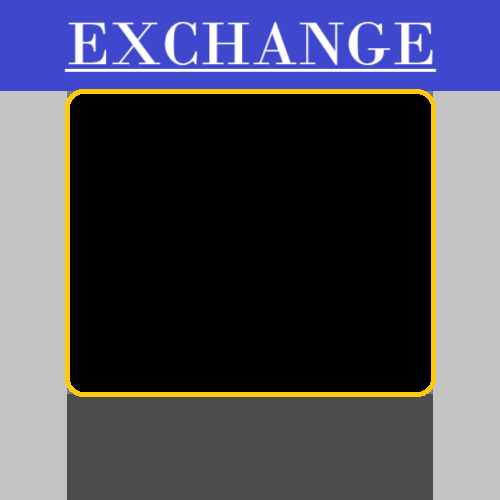
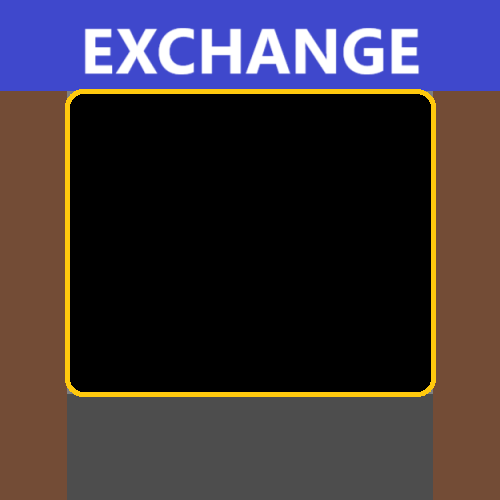
kantor graficznie epilog
hopefully

Changed region(s): [[0.84, 0.18, 1.0, 1.0], [0.0, 0.18, 0.15, 1.0], [0.12, 0.03, 0.87, 0.15]]

diff --git a/src/monopolyGame/GamePanel.java b/src/monopolyGame/GamePanel.java
@@ -2,6 +2,7 @@ package monopolyGame;
 
 import javax.swing.*;
 import javax.swing.border.Border;
+import javax.swing.border.MatteBorder;
 
 import java.awt.*;
 import java.awt.event.*;
@@ -78,6 +79,7 @@ public class GamePanel extends JPanel{
     JButton CalculateExchange;
     Timer timer;
     private int seconds;
+    JPanel RightBottomPanel;
 
     protected Subject subject;
     Pawn pawn0= Board.getPawns()[0];
@@ -1018,10 +1020,22 @@ public class GamePanel extends JPanel{
 
         revalidate();
     }
+
     public void CreateExchangeLabels(){
         
-        JPanel RightBottomPanel = new JPanel();
-        RightBottomPanel.setBorder(BorderFactory.createLineBorder(Color.decode("#000000"), 10, true));
+        RightBottomPanel = new JPanel(){
+            protected void paintComponent(Graphics g){
+                super.paintComponent(g);
+                Graphics2D g2d = (Graphics2D) g.create();
+                Image backGroundExchange = new ImageIcon("src/images/exchangeRightBottom.png").getImage();
+                
+                g2d.drawImage(backGroundExchange, null, RightBottomPanel);
+                g2d.dispose();
+            }
+        };
+
+        
+        
         RightBottomPanel.setLayout(new BoxLayout(RightBottomPanel, BoxLayout.PAGE_AXIS));
         Font f = new Font(Font.SANS_SERIF, Font.BOLD, 23);
 
@@ -1031,8 +1045,11 @@ public class GamePanel extends JPanel{
         tmp = Math.round(board.getEuroRate()/board.getDollarRate() * 100.0) / 100.0;
         String DolarTOEuro = "1 Dolar is worth " + Double.toString((tmp)) + " Euros";
 
+        
         EurotoDolar = new JLabel(EuroTODolar);
+        EurotoDolar.setForeground(Color.WHITE);
         DolartoEuro = new JLabel(DolarTOEuro);
+        DolartoEuro.setForeground(Color.WHITE);
         EurotoDolar.setAlignmentX(Component.CENTER_ALIGNMENT);
         DolartoEuro.setAlignmentX(Component.CENTER_ALIGNMENT);
         EurotoDolar.setFont(f);
@@ -1044,23 +1061,35 @@ public class GamePanel extends JPanel{
         optionsOfExchange.setBorder(BorderFactory.createEmptyBorder(20, 20, 20, 20));
         optionsOfExchange.setMaximumSize(optionsOfExchange.getPreferredSize());
         optionsOfExchange.setAlignmentX(Component.CENTER_ALIGNMENT);       
-        
+        optionsOfExchange.setBackground(Color.BLACK);
+        optionsOfExchange.setForeground(Color.white);
+
         moneyInput = new JTextField("Enter the amount");
         Dimension a = new Dimension(200, 30);
         moneyInput.setMaximumSize(a);
         moneyInput.setAlignmentX(Component.CENTER_ALIGNMENT);
+        moneyInput.setBackground(Color.black);
+        moneyInput.setForeground(Color.white);
+        moneyInput.setBorder(new MatteBorder(0, 0, 2, 0, Color.white));
+
 
         CalculateExchange = new JButton("Calculate");
         CalculateExchange.setMaximumSize(CalculateExchange.getPreferredSize());
         CalculateExchange.setAlignmentX(Component.CENTER_ALIGNMENT);
         CalculateExchange.addActionListener(new CalculateExchangeReaction());
+        CalculateExchange.setBackground(Color.white);
+
 
         String money = "" ;
 
         moneyOutput = new JLabel(money);
         moneyOutput.setAlignmentX(Component.CENTER_ALIGNMENT);
+        moneyOutput.setForeground(Color.white);
 
-        JLabel space = new JLabel("<html> <br> <br> <br> </html>");
+        //jak jest tylo jedna to niedziała idk dlaczego
+        //if it works it works tho
+        JLabel space0 = new JLabel("<html> <br> <br> <br> <br> <br> <br> <br> </html>");
+        JLabel space = new JLabel("<html> <br> <br> <br> <br> <br> <br> <br> </html>");
         
         exchangeButton = new JButton("Exchange");
         exchangeButton.setAlignmentX(Component.CENTER_ALIGNMENT);
@@ -1072,6 +1101,7 @@ public class GamePanel extends JPanel{
         exchangeButton.setVisible(false);
         exchangeButton.addActionListener(new ExchangeButtonReaction());
 
+        RightBottomPanel.add(space0);
         RightBottomPanel.add(EurotoDolar);
         RightBottomPanel.add(DolartoEuro);
         RightBottomPanel.add(optionsOfExchange);
